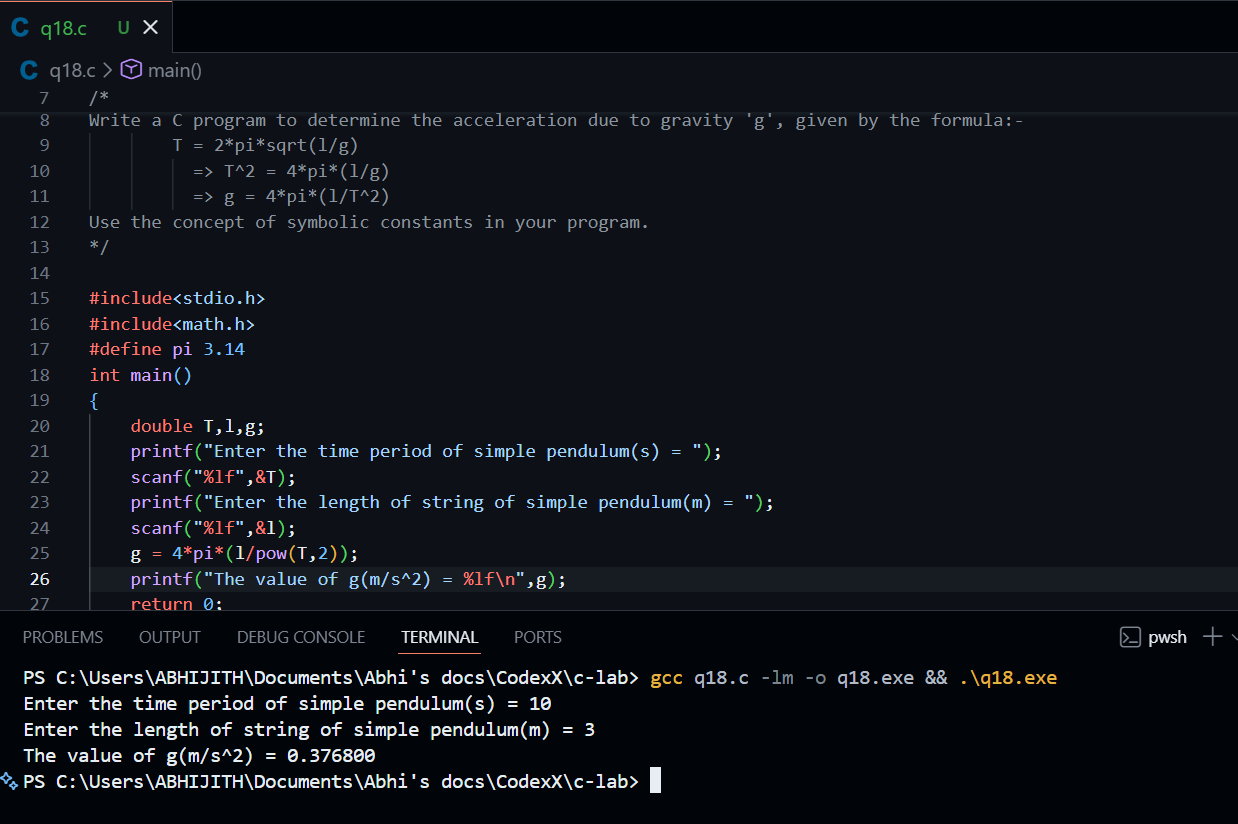
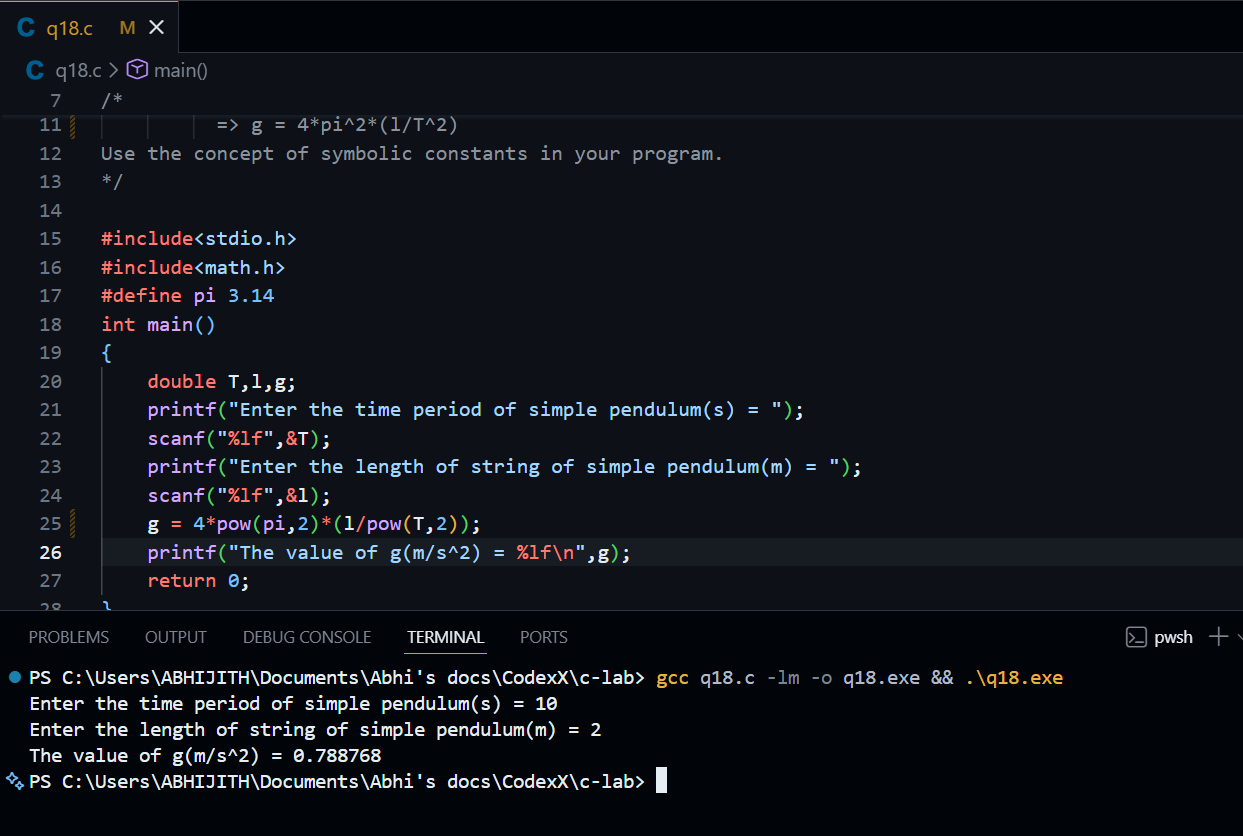
lab work

diff --git a/q18.c b/q18.c
@@ -7,8 +7,8 @@ Department = Department of Computer Science(DCS)
 /*
 Write a C program to determine the acceleration due to gravity 'g', given by the formula:-
         T = 2*pi*sqrt(l/g)
-          => T^2 = 4*pi*(l/g)
-          => g = 4*pi*(l/T^2)
+          => T^2 = 4*pi^2*(l/g)
+          => g = 4*pi^2*(l/T^2)
 Use the concept of symbolic constants in your program.
 */ 
 
@@ -22,7 +22,7 @@ int main()
     scanf("%lf",&T);
     printf("Enter the length of string of simple pendulum(m) = ");
     scanf("%lf",&l);
-    g = 4*pi*(l/pow(T,2));
+    g = 4*pow(pi,2)*(l/pow(T,2));
     printf("The value of g(m/s^2) = %lf\n",g);
     return 0;
 }
